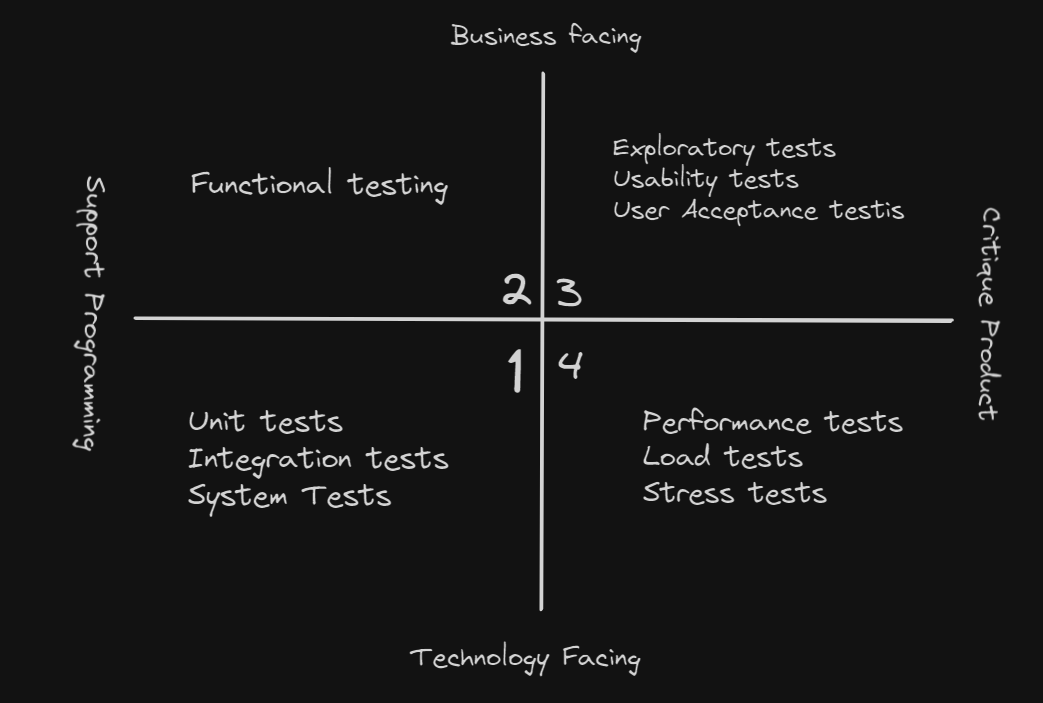
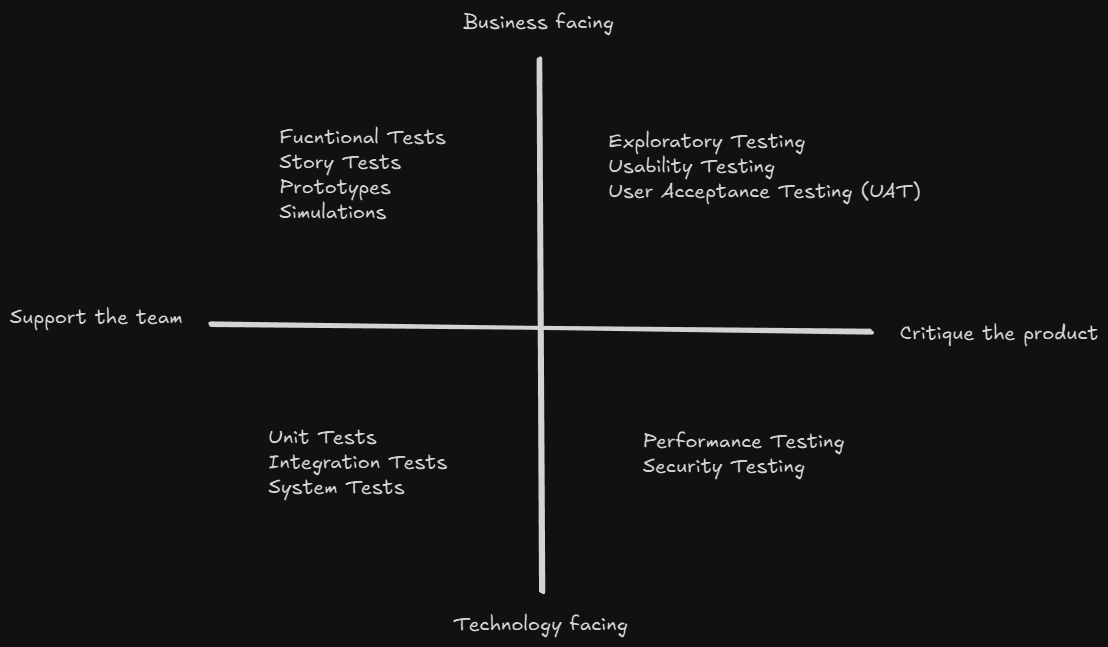
small changes

diff --git a/SDLC/testing_the_sofware_development_lifecycle.md b/SDLC/testing_the_sofware_development_lifecycle.md
@@ -2,10 +2,11 @@
 # Content of Table Testing Throughout the Software Development Lifecycle
 
 - [Software Development Life Cycle (SDLC) Models](#software-development-life-cycle-sdlc-models)
-- [Good Practices of Testing](#good-practices-of-testing)
+- [Role of Testing in DevOps](#role-of-testing-in-devops)
 - [Testing Approaches in Software Development](#testing-approaches-in-software-development)
 - [Software Testing Life Cycle (STLC)](#software-testing-life-cycle-stlc)
-- [Role of Testing in DevOps](#role-of-testing-in-devops)
+- [STLC Implementation in Different Development Models](#stlc-implementation-in-different-development-models)
+- [Good Practices of Testing](#good-practices-of-testing)
 
 ## Software Development Life Cycle (SDLC) Models
 
@@ -230,22 +231,46 @@ Software Development Life Cycle (SDLC) models are methodologies that guide the p
 
 </details>
 
-## Good Practices of Testing
+## Role of Testing in DevOps
 
 **Explanation:**
 
-Good testing practices should be followed in any development model. These practices ensure that all development activities are subjected to quality control and that testing is comprehensive and effective.
+In DevOps, a methodology that integrates software development (Dev) and IT operations (Ops), testing is not a separate phase but is integrated into every part of the development and deployment process. This integration ensures continuous quality and faster delivery.
+
+![alt text](./assets/images/devops.png)
 
 <details>
     <summary>Overview:</summary>
 
-1. **Corresponding Testing Activity:** For every development activity, there should be a corresponding testing activity. This ensures that all development activities are subjected to quality control.
+1. **Integration of Testing:** DevOps includes embedded testing as part of the development process, eliminating the need for a separate testing phase between development and operations.
 
-2. **Specific Test Objectives:** Different test levels should have specific and different test objectives to avoid redundancy and ensure comprehensive testing.
+2. **Continuous Integration and Continuous Delivery (CI/CD):**
+    - **Continuous Integration (CI):** Every time new code is checked in, automated tests are triggered to verify the build and perform regression testing.
+    - **Continuous Delivery (CD):** Ensures that code changes are automatically prepared for a release to production.
 
-3. **Early Test Analysis and Design:** Test analysis and design for a given test level should begin during the corresponding development phase to adhere to the principles of early testing.
+3. **Continuous Testing:** Testing is conducted continuously throughout the development process. Every code change triggers automated tests to ensure that new code integrates well with the existing codebase.
 
-4. **Early Involvement of Testers:** Testers should be involved in reviewing work products as soon as drafts are available. This supports early testing and defect detection, aligning with the shift-left strategy.
+4. **Shift Left Testing:** This approach involves conducting testing as early as possible in the development process (shifting it "left" in the timeline). By identifying and fixing defects early, the overall cost and time to fix issues are reduced.
+
+5. **Infrastructure as Code (IaC):** Is a practice in which infrastructure is provisioned and managed using code and automation, rather than through manual processes. This approach allows for the consistent and repeatable deployment of infrastructure resources, such as servers, networks, and storage, by defining them in configuration files.
+
+6. **Monitoring and Logging:** Continuous monitoring and logging are used in DevOps to track the application's performance and catch issues in real-time. This helps in quickly identifying and resolving problems before they impact end-users.
+
+7. **Integrated Toolchains:** DevOps promotes the use of integrated toolchains that support continuous integration and continuous delivery (CI/CD). These toolchains automate the build, test, and deployment processes, ensuring a smooth and efficient workflow.
+
+8. **Collaboration:** Collaboration between development, testing, and operations teams. This collaboration ensures that everyone is aligned with the common goal of delivering high-quality software quickly and efficiently.
+
+9. **Benefits of DevOps:**
+    - **Fast Feedback:** Provides quick feedback on code quality and whether changes adversely affect existing code.
+    - **Shift-Left Approach:** Encourages developers to submit high-quality code accompanied by component tests and static analysis.
+    - **Automated Processes:** Facilitates establishing stable test environments and increases the view on non-functional code quality characteristics.
+    - **Reduced Manual Testing:** Automation through a delivery pipeline reduces the need for repetitive manual testing.
+    - **Minimized Regression Risk:** Frequent automated regression tests reduce the risk of regression failures.
+
+10. **Challenges of DevOps**
+    - **Establishing the Pipeline:** Defining and establishing the DevOps delivery pipeline requires expertise and knowledge.
+    - **Tool Maintenance:** CI/CD tools must be introduced and maintained, adding complexity to the process.
+    - **Resource Requirements:** Test automation requires additional resources and may be difficult to establish and maintain.
 
 </details>
 
@@ -297,15 +322,35 @@ Testing approaches in software development are strategies used to ensure the fun
 
 5. **Testing Quadrants:** This is a model that helps teams identify what type of testing is needed, when it should be done, and who should do it. It divides testing into four quadrants based on whether the tests are business or technology-facing and whether they support the team or critique the product.
 
-    - **Quadrant 1** - Technology-Facing Tests that Support the Team: This quadrant includes tests that are technology-driven and are used to guide development. These are often automated tests. Examples include Unit Tests, Component Tests, and API Tests.
+    - **Quadrant Q1: Technology-Facing Tests that Support the Team**
+        - **Purpose:** Ensure code quality and correctness.
+        - **Types of Tests:** Unit Tests, Integration Tests, System Tests.
+        - **Characteristics:** Automated, run frequently.
+        - **Example:** Writing unit tests for individual functions.
 
-    - **Quadrant 2** - Business-Facing Tests that Support the Team: This quadrant includes tests that are business-driven and are used to describe and validate what the system should do. These tests are often automated and include tests like Functional Tests.
+    - **Quadrant Q2: Business-Facing Tests that Support the Team**
+        - **Purpose:** Validate business requirements and user scenarios.
+        - **Types of Tests:** Functional Tests, Story Tests, Prototypes, Simulations.
+            - **Functional tests** are designed to verify that the software performs its intended functions correctly. These tests focus on the functionality of the software and ensure that it meets the specified requirements.
+            - **Story tests** are acceptance tests that are derived from user stories. They are used to validate that the software meets the acceptance criteria defined for each user story.
+            - **Prototypes** are early models or versions of a product used to visualize and test design concepts. They help in understanding how the final product will look and function.
+            - **Simulations** are tools or software that mimic the behavior of real systems or environments. They are used to create a virtual environment for testing purposes.
+        - **Characteristics:** Can be automated or manual.
+        - **Example:** Creating functional tests for user purchase flows.
 
-    - **Quadrant 3** - Business-Facing Tests that Critique the Product: This quadrant includes tests that are business-driven and are used to provide feedback. These tests are often manual and exploratory in nature. Examples include Exploratory Testing, Usability Testing, User Acceptance Testing, and Alpha/Beta Testing.
+    - **Quadrant Q3: Business-Facing Tests that Critique the Product**
+        - **Purpose:** Find defects and improve user experience.
+        - **Types of Tests:** Exploratory Testing, Usability Testing, User Acceptance Testing (UAT), Alpha/Beta Testing.
+        - **Characteristics:** Often manual.
+        - **Example:** Conducting usability testing for mobile app navigation.
 
-    - **Quadrant 4** - Technology-Facing Tests that Critique the Product: This quadrant includes tests that are technology-driven and are used to critique the product from a non-functional requirement perspective. These tests are often automated and include Performance Testing, Security Testing, Load Testing, and Stress Testing.
+    - **Quadrant Q4: Technology-Facing Tests that Critique the Product**
+        - **Purpose:** Assess non-functional aspects like performance and security.
+        - **Types of Tests:** Performance Testing, Load Testing, Security Testing.
+        - **Characteristics:** Can be automated or manual.
+        - **Example:** Performing testing for web application scalability.
 
-    ![alt text](./assets/images/testQuandrants.png)
+        ![alt text](./assets/images/testQuandrants.png)
 
 </details>
 
@@ -352,7 +397,7 @@ The Software Testing Life Cycle (STLC) is a sequence of specific activities cond
 
     3. **Triggers for maintenance testing include:**
 
-        - **Modifications**: Updates or enhancements to existing features.
+        - **Modifications:** Updates or enhancements to existing features.
 
         - **Upgrades:** Introducing new features or significant changes to the software.
 
@@ -362,45 +407,88 @@ The Software Testing Life Cycle (STLC) is a sequence of specific activities cond
 
 </details>
 
-## Role of Testing in DevOps
+## STLC Implementation in Different Development Models
 
 **Explanation:**
 
-In DevOps, a methodology that integrates software development (Dev) and IT operations (Ops), testing is not a separate phase but is integrated into every part of the development and deployment process. This integration ensures continuous quality and faster delivery.
-
-![alt text](./assets/images/devops.png)
+The Software Testing Life Cycle (STLC) phases are adapted to fit into various development models, ensuring that testing activities are aligned with the specific processes and practices of each model.
 
 <details>
     <summary>Overview:</summary>
 
-1. **Integration of Testing**: DevOps includes embedded testing as part of the development process, eliminating the need for a separate testing phase between development and operations.
+1. **Waterfall Model:** Test activities are performed in a linear sequence, with each phase completed before the next one begins. Testing is concentrated towards the end of the development cycle.
 
-2. **Continuous Integration and Continuous Delivery (CI/CD)**:
-    - **Continuous Integration (CI)**: Every time new code is checked in, automated tests are triggered to verify the build and perform regression testing.
-    - **Continuous Delivery (CD)**: Ensures that code changes are automatically prepared for a release to production.
+    | **STLC Phase**             | **Waterfall Model Implementation**                                                                                                 |
+    |----------------------------|------------------------------------------------------------------------------------------------------------------------------------|
+    | **Requirement Analysis**   | Conducted once at the beginning of the project.                                                                                    |
+    | **Test Planning**          | Detailed test plan created at the beginning of the project.                                                                        |
+    | **Test Design**            | Test cases and scenarios are designed after the requirements and design phases are completed.                                      |
+    | **Test Environment Setup** | Test environment is set up once before the test execution phase.                                                                   |
+    | **Test Implementation**    | Test cases and scripts are implemented after the design phase and before the test execution phase.                                 |
+    | **Test Execution**         | Test execution is performed after the implementation phase.                                                                        |
+    | **Test Closure**           | Test closure activities are performed once after all testing is completed.                                                         |
+    | **Impact Analysis**        | Impact analysis is conducted when changes are made, typically during the maintenance phase.                                        |
+    | **Maintenance Testing**    | Maintenance testing is performed after the product is deployed and during the maintenance phase.                                   |
 
-3. **Continuous Testing:** Testing is conducted continuously throughout the development process. Every code change triggers automated tests to ensure that new code integrates well with the existing codebase.
+2. **Iterative and Incremental Model:** Test activities are performed iteratively within each iteration. Testing is done incrementally as new features are developed, allowing for continuous feedback and improvement.
 
-4. **Shift Left Testing:** This approach involves conducting testing as early as possible in the development process (shifting it "left" in the timeline). By identifying and fixing defects early, the overall cost and time to fix issues are reduced.
+    | **STLC Phase**             | **Iterative and Incremental Model Implementation**                                                                                 |
+    |----------------------------|------------------------------------------------------------------------------------------------------------------------------------|
+    | **Requirement Analysis**   | Conducted at the beginning of each iteration for the features being developed.                                                     |
+    | **Test Planning**          | Test planning is done for each iteration, focusing on the features in that iteration.                                              |
+    | **Test Design**            | Test cases and scenarios are designed within each iteration for the features being developed.                                      |
+    | **Test Environment Setup** | Test environment is set up and configured for each iteration as needed.                                                            |
+    | **Test Implementation**    | Test cases and scripts are implemented within each iteration for the features being developed.                                     |
+    | **Test Execution**         | Test execution is performed within each iteration, with continuous integration and testing.                                        |
+    | **Test Closure**           | Test closure activities are performed at the end of each iteration.                                                                |
+    | **Impact Analysis**        | Impact analysis is conducted continuously as changes are made in each iteration.                                                   |
+    | **Maintenance Testing**    | Maintenance testing is performed continuously as enhancements and bug fixes are made in each iteration.                            |
 
-5. **Infrastructure as Code (IaC):** In DevOps, the infrastructure is often managed using code, which means it can be tested just like application code. This ensures that the infrastructure is consistent and reliable across different environments.
+3. **Agile Model:** Test activities are performed iteratively within each sprint. Testing is integrated into the development process, allowing for continuous feedback and improvement.
 
-6. **Monitoring and Logging:** Continuous monitoring and logging are used in DevOps to track the application's performance and catch issues in real-time. This helps in quickly identifying and resolving problems before they impact end-users.
+    | **STLC Phase**             | **Agile Model Implementation**                                                                                                     |
+    |----------------------------|------------------------------------------------------------------------------------------------------------------------------------|
+    | **Requirement Analysis**   | Conducted at the beginning of each sprint for the user stories being developed.                                                    |
+    | **Test Planning**          | Test planning is done for each sprint, focusing on the user stories in that sprint.                                                |
+    | **Test Design**            | Test cases and scenarios are designed within each sprint for the user stories being developed.                                     |
+    | **Test Environment Setup** | Test environment is set up and configured for each sprint as needed.                                                               |
+    | **Test Implementation**    | Test cases and scripts are implemented within each sprint for the user stories being developed.                                    |
+    | **Test Execution**         | Test execution is performed within each sprint, with continuous integration and testing.                                           |
+    | **Test Closure**           | Test closure activities are performed at the end of each sprint.                                                                   |
+    | **Impact Analysis**        | Impact analysis is conducted continuously as changes are made in each sprint.                                                      |
+    | **Maintenance Testing**    | Maintenance testing is performed continuously as enhancements and bug fixes are made in each sprint.                               |
 
-7. **Integrated Toolchains:** DevOps promotes the use of integrated toolchains that support continuous integration and continuous delivery (CI/CD). These toolchains automate the build, test, and deployment processes, ensuring a smooth and efficient workflow.
+4. **DevOps:** Test activities are integrated throughout the development and deployment process, with a strong emphasis on automation and continuous testing within the CI/CD pipeline.
 
-8. **Collaboration:** Collaboration between development, testing, and operations teams. This collaboration ensures that everyone is aligned with the common goal of delivering high-quality software quickly and efficiently.
+    | **STLC Phase**             | **DevOps Implementation**                                                                                                          |
+    |----------------------------|------------------------------------------------------------------------------------------------------------------------------------|
+    | **Requirement Analysis**   | Conducted continuously as part of the ongoing collaboration between development, operations, and business teams.                   |
+    | **Test Planning**          | Test planning is integrated into the CI/CD pipeline, with continuous updates based on feedback and changes.                        |
+    | **Test Design**            | Test cases and scenarios are designed continuously, with a focus on automation and integration into the CI/CD pipeline.            |
+    | **Test Environment Setup** | Test environments are provisioned automatically using infrastructure as code (IaC) and configured as part of the CI/CD pipeline.   |
+    | **Test Implementation**    | Test cases and scripts are implemented continuously, with a strong emphasis on automation and integration into the CI/CD pipeline. |
+    | **Test Execution**         | Test execution is automated and integrated into the CI/CD pipeline, with tests running continuously on each code commit.           |
+    | **Test Closure**           | Test closure activities are performed continuously, with results documented and metrics collected automatically.                   |
+    | **Impact Analysis**        | Impact analysis is conducted continuously using automated tools to identify affected areas and plan regression tests.              |
+    | **Maintenance Testing**    | Maintenance testing is performed continuously as part of the CI/CD pipeline, with automated regression tests for each change.      |
 
-9. **Benefits of DevOps:**
-    - **Fast Feedback**: Provides quick feedback on code quality and whether changes adversely affect existing code.
-    - **Shift-Left Approach**: Encourages developers to submit high-quality code accompanied by component tests and static analysis.
-    - **Automated Processes**: Facilitates establishing stable test environments and increases the view on non-functional code quality characteristics.
-    - **Reduced Manual Testing**: Automation through a delivery pipeline reduces the need for repetitive manual testing.
-    - **Minimized Regression Risk**: Frequent automated regression tests reduce the risk of regression failures.
+</details>
 
-10. **Challenges of DevOps**
-    - **Establishing the Pipeline**: Defining and establishing the DevOps delivery pipeline requires expertise and knowledge.
-    - **Tool Maintenance**: CI/CD tools must be introduced and maintained, adding complexity to the process.
-    - **Resource Requirements**: Test automation requires additional resources and may be difficult to establish and maintain.
+## Good Practices of Testing
+
+**Explanation:**
+
+Good testing practices should be followed in any development model. These practices ensure that all development activities are subjected to quality control and that testing is comprehensive and effective.
+
+<details>
+    <summary>Overview:</summary>
+
+1. **Corresponding Testing Activity:** For every development activity, there should be a corresponding testing activity. This ensures that all development activities are subjected to quality control.
+
+2. **Specific Test Objectives:** Different test levels should have specific and different test objectives to avoid redundancy and ensure comprehensive testing.
+
+3. **Early Test Analysis and Design:** Test analysis and design for a given test level should begin during the corresponding development phase to adhere to the principles of early testing.
+
+4. **Early Involvement of Testers:** Testers should be involved in reviewing work products as soon as drafts are available. This supports early testing and defect detection, aligning with the shift-left strategy.
 
 </details>

diff --git a/types_of_testing/types_of_testing.md b/types_of_testing/types_of_testing.md
@@ -6,21 +6,11 @@
 - [Static Testing](#static-testing)
 - [Differences Between Static Testing and Dynamic Testing](#differences-between-static-testing-and-dynamic-testing)
 
-**Explanation:**
-
-- **Dynamic Testing:** Involves executing the software to validate its behavior.
-  - **Purpose:** To find defects by executing the code.
-  - **Techniques:** Functional testing, non-functional testing.
-
-- **Static Testing:** Involves reviewing documentation and code without executing the software.
-  - **Purpose:** To find defects early in the development process.
-  - **Techniques:** Manual reviews, static analysis using tools.
-
 ## Dynamic Testing
 
 **Explanation:**
 
-Dynamic testing involves methods used in software development that require the execution of the software. These methods are used to validate both the functional and non-functional behavior of software. They are often used in conjunction with static testing methods, which do not require executing the software.
+Dynamic testing involves methods used in software development that require the execution of the software to find defects. These methods are used to validate both the functional and non-functional behavior of software.
 
 <details>
     <summary>Overview:</summary>
@@ -72,7 +62,7 @@ Dynamic testing involves methods used in software development that require the e
 
 **Explanation:**
 
-Static testing involves validating the code, design documents, and software requirements without actually executing the software. This type of testing is performed to identify defects early in the development process, ensuring that the work products meet the required standards and specifications.
+Static testing involves validating the code, design documents, and software requirements without actually executing the software to find defects early in the development process.
 
 <details>
     <summary>Overview:</summary>
